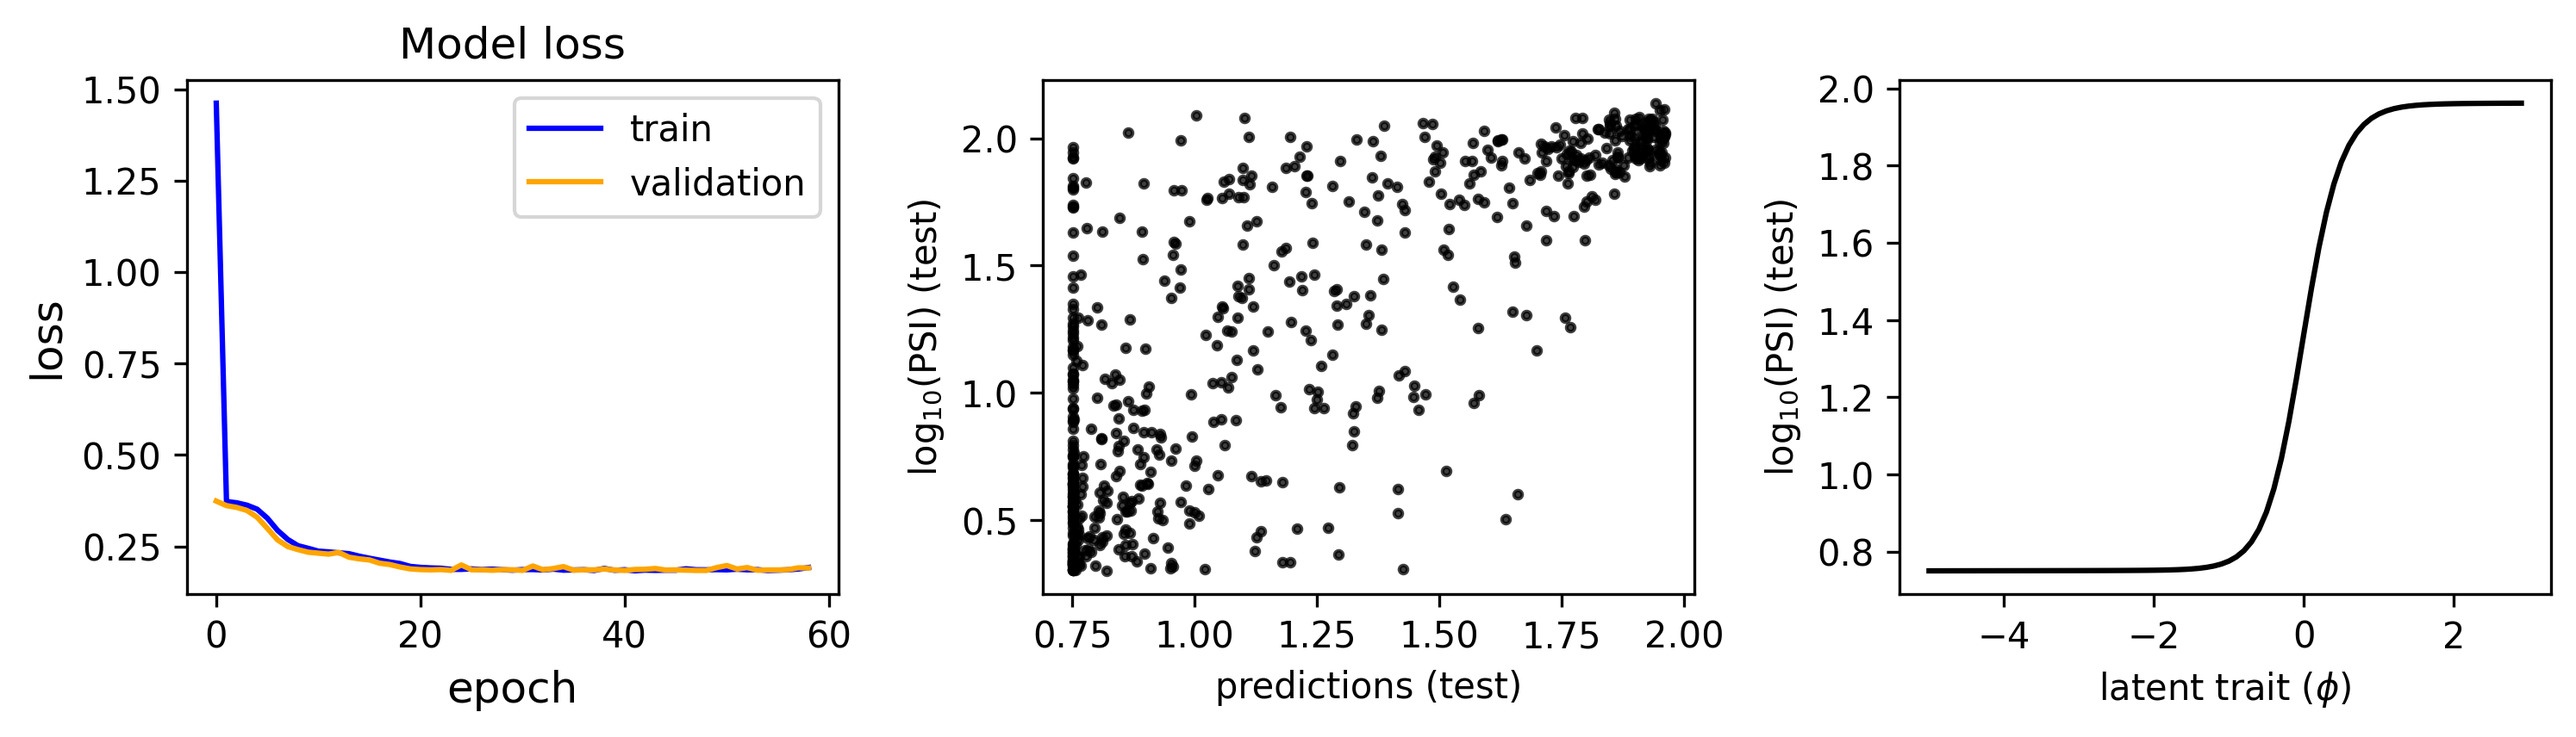
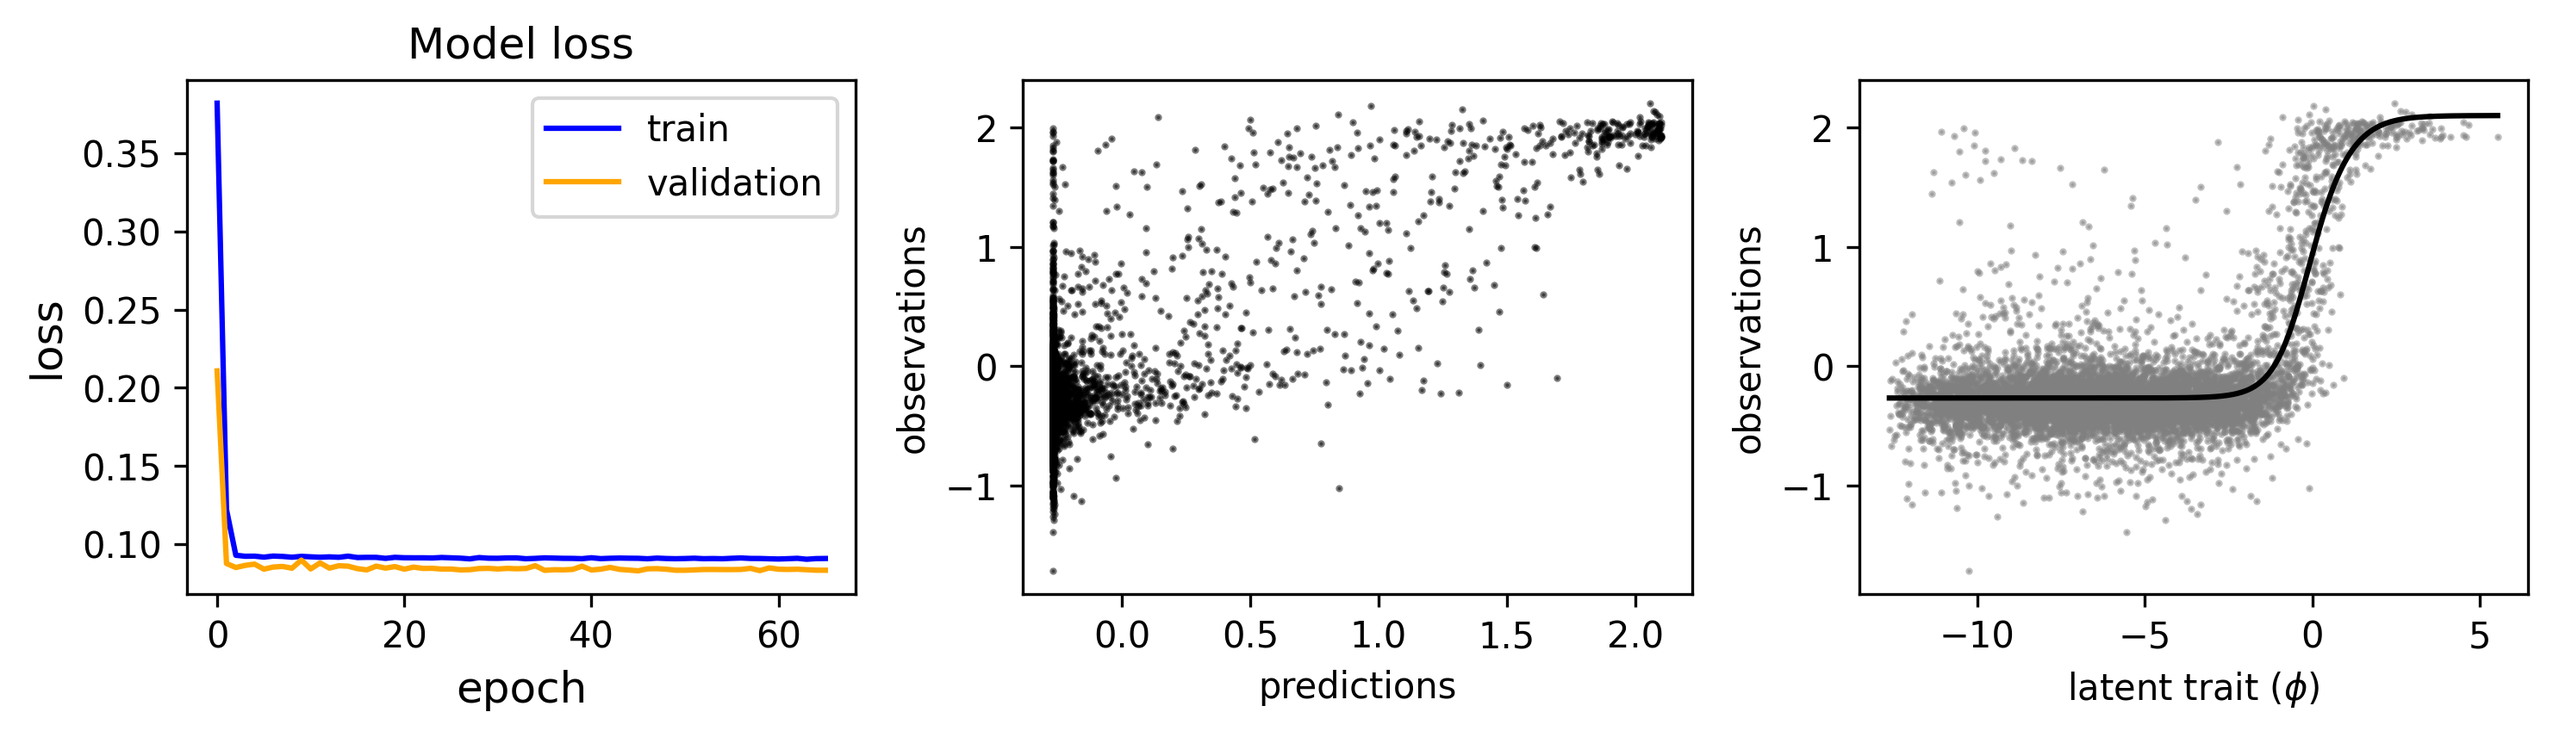
Adding mpsa pairwise demo, adding helper function which cleans up demo code, updating documentation

diff --git a/mavenn/src/utils.py b/mavenn/src/utils.py
@@ -2,6 +2,7 @@ from sklearn.preprocessing import LabelEncoder
 from sklearn.preprocessing import OneHotEncoder
 import numpy as np
 from mavenn.src.error_handling import handle_errors, check
+import matplotlib.pyplot as plt
 
 
 @handle_errors
@@ -285,3 +286,63 @@ def _generate_all_pair_features_from_sequences(sequences,
         allpairs_seqs_OHE.append(OHE_dinucl_seq.ravel())
 
     return np.array(allpairs_seqs_OHE)
+
+
+@handle_errors
+def ge_plots_for_mavenn_demo(loss_history,
+                             predictions,
+                             true_labels,
+                             sequences,
+                             GE_model):
+    """
+
+    Helper function that plots predictions vs true labels,
+    losses and the GE nonlinearity for mavenn's demo functions
+
+    parameters
+    ----------
+    loss_history: (tf loss history/array-like)
+        arrays containing loss values
+
+    sequences: (array-like)
+        sequences which will be used to make predictions
+
+    predictions: (array-like)
+        model predictions for the sequences entered
+
+    true_labels: (array-like)
+        true labels for the model predictions
+
+    GE_model: (GlobalEpistasisModel object)
+        trained GE model from which the GE nonlinearity will be plotted
+
+
+    returns
+    -------
+    None
+
+    """
+
+    fig, ax = plt.subplots(1, 3, figsize=(10, 3))
+
+    ax[0].plot(loss_history.history['loss'], color='blue')
+    ax[0].plot(loss_history.history['val_loss'], color='orange')
+    ax[0].set_title('Model loss', fontsize=12)
+    ax[0].set_ylabel('loss', fontsize=12)
+    ax[0].set_xlabel('epoch', fontsize=12)
+    ax[0].legend(['train', 'validation'])
+
+    ax[1].scatter(predictions, true_labels, s=1, alpha=0.5, color='black')
+    ax[1].set_ylabel('observations')
+    ax[1].set_xlabel('predictions')
+
+    # get ge nonlinear function
+    GE_nonlinearity = GE_model.ge_nonlinearity(sequences)
+
+    ax[2].plot(GE_nonlinearity[1], GE_nonlinearity[0], color='black')
+    ax[2].scatter(GE_nonlinearity[2], true_labels, color='gray', s=1, alpha=0.5)
+
+    ax[2].set_ylabel('observations')
+    ax[2].set_xlabel('latent trait ($\phi$)')
+
+    plt.tight_layout()

diff --git a/mavenn/examples/demo_GEmpsaPairwise.py b/mavenn/examples/demo_GEmpsaPairwise.py
@@ -14,13 +14,13 @@ x_train, x_test, y_train, y_test = train_test_split(mpsa_df['sequence'].values, 
 train_df = pd.DataFrame({'sequence': x_train, 'values': y_train}, columns=['sequence', 'values'])
 
 # load mavenn's GE model
-GE_model = mavenn.GlobalEpistasisModel(df=train_df, model_type='additive', alphabet_dict='rna')
+GE_model = mavenn.GlobalEpistasisModel(df=train_df, model_type='pairwise',alphabet_dict='rna')
 model = GE_model.define_model()
-GE_model.compile_model(lr=0.005)
-history = GE_model.fit(epochs=200, use_early_stopping=True, early_stopping_patience=20)
+GE_model.compile_model(lr=0.001)
+history = GE_model.fit(epochs=200, use_early_stopping=True, early_stopping_patience=20, verbose=1)
 
 predictions = GE_model.predict(x_test)
-loss_history =  GE_model.return_loss()
+loss_history = GE_model.return_loss()
 
 ge_plots_for_mavenn_demo(loss_history, predictions, y_test, x_test, GE_model)
 

diff --git a/mavenn/examples/demo_GEGB1.py b/mavenn/examples/demo_GEGB1.py
@@ -123,8 +123,8 @@ ax[0].set_xlabel('epoch', fontsize=12)
 ax[0].legend(['train', 'validation'])
 
 ax[1].scatter(predictions,y_test, s=0.05, alpha=0.05, color='black')
-ax[1].set_ylabel('log enrichment (test)')
-ax[1].set_xlabel('predictions (test)')
+ax[1].set_ylabel('observations')
+ax[1].set_xlabel('predictions')
 
 # get ge nonlinear function
 GE_nonlinearity = GE_model.ge_nonlinearity(x_test)
@@ -132,7 +132,7 @@ GE_nonlinearity = GE_model.ge_nonlinearity(x_test)
 ax[2].plot(GE_nonlinearity[1], GE_nonlinearity[0], color='black')
 ax[2].scatter(GE_nonlinearity[2], y_test, color='gray', s=2, alpha=0.1)
 
-ax[2].set_ylabel('log (enrichment) (test)')
+ax[2].set_ylabel('observations')
 ax[2].set_xlabel('latent trait ($\phi$)')
 
 plt.tight_layout()

diff --git a/docs/examples.rst b/docs/examples.rst
@@ -25,43 +25,54 @@ and assume that the following header cell has already been run. ::
 Additive GE model: (MPSA)
 -------------------------
 
-Fill text . ::
+Example snippet for fitting additive GE model to MPSA data ::
 
-	# load data
-	mpsa_df = pd.read_csv(mavenn.__path__[0]+'/examples/datafiles/mpsa/psi_9nt_mavenn.csv')
-	mpsa_df = mpsa_df.dropna()
-	mpsa_df = mpsa_df[mpsa_df['values'] > 2]  # No pseudocounts
+    # load data
+    mpsa_df = pd.read_csv(mavenn.__path__[0]+'/examples/datafiles/mpsa/psi_9nt_mavenn.csv')
+    mpsa_df = mpsa_df.dropna()
+    mpsa_df = mpsa_df[mpsa_df['values'] > 0]  # No pseudocounts
 
-	x_train, x_test, y_train, y_test = train_test_split(mpsa_df['sequence'].values, np.log10(mpsa_df['values'].values))
-	train_df = pd.DataFrame({'sequence': x_train, 'values': y_train}, columns=['sequence', 'values'])
+    x_train, x_test, y_train, y_test = train_test_split(mpsa_df['sequence'].values, np.log10(mpsa_df['values'].values))
+    train_df = pd.DataFrame({'sequence': x_train, 'values': y_train}, columns=['sequence', 'values'])
 
-	# load mavenn's GE model
-	GE_model = mavenn.GlobalEpistasisModel(df=train_df, model_type='GE',alphabet_dict='rna')
-	model = GE_model.define_model()
-	GE_model.compile_model(lr=0.0025)
-	history = GE_model.fit(epochs=200, use_early_stopping=True, early_stopping_patience=10)
+    # load mavenn's GE model
+    GE_model = mavenn.GlobalEpistasisModel(df=train_df, model_type='additive', alphabet_dict='rna')
+    model = GE_model.define_model()
+    GE_model.compile_model(lr=0.005)
+    history = GE_model.fit(epochs=200, use_early_stopping=True, early_stopping_patience=20)
 
-	predictions = GE_model.predict(x_test)
-	loss_history =  GE_model.return_loss()
+    predictions = GE_model.predict(x_test)
+    loss_history =  GE_model.return_loss()
 
-	# make plots
-	fig, ax = plt.subplots(1, 3, figsize=(10, 3))
-
-	ax[0].plot(loss_history.history['loss'], color='blue')
-	ax[0].plot(loss_history.history['val_loss'], color='orange')
-	ax[0].set_title('Model loss', fontsize=12)
-	ax[0].set_ylabel('loss', fontsize=12)
-	ax[0].set_xlabel('epoch', fontsize=12)
-	ax[0].legend(['train', 'validation'])
-
-	ax[1].scatter(predictions,y_test,s=5, alpha=0.75, color='black')
-	ax[1].set_ylabel('log$_{10}$(PSI) (test)')
-	ax[1].set_xlabel('predictions (test)')
-
-	phi = np.arange(-5,3,0.1)
-	ax[2].plot(phi,GE_model.ge_nonlinearity(phi), color='black')
-	ax[2].set_ylabel('log$_{10}$(PSI) (test)')
-	ax[2].set_xlabel('latent trait ($\phi$)')
+    # make plots
+    ge_plots_for_mavenn_demo(loss_history, predictions, y_test, x_test, GE_model)
 	
 .. image:: _static/examples_images/GE_additive_mpsa_demo.png	
 	
+
+Pairwise GE model: (MPSA)
+-------------------------
+
+Example snippet for fitting pairwise GE model to MPSA data ::
+
+    # load data
+    mpsa_df = pd.read_csv(mavenn.__path__[0]+'/examples/datafiles/mpsa/psi_9nt_mavenn.csv')
+    mpsa_df = mpsa_df.dropna()
+    mpsa_df = mpsa_df[mpsa_df['values'] > 0]  # No pseudocounts
+
+    x_train, x_test, y_train, y_test = train_test_split(mpsa_df['sequence'].values, np.log10(mpsa_df['values'].values))
+    train_df = pd.DataFrame({'sequence': x_train, 'values': y_train}, columns=['sequence', 'values'])
+
+    # load mavenn's GE model
+    GE_model = mavenn.GlobalEpistasisModel(df=train_df, model_type='pairwise',alphabet_dict='rna')
+    model = GE_model.define_model()
+    GE_model.compile_model(lr=0.001)
+    history = GE_model.fit(epochs=200, use_early_stopping=True, early_stopping_patience=20, verbose=1)
+
+    predictions = GE_model.predict(x_test)
+    loss_history =  GE_model.return_loss()
+
+    # make plots
+    ge_plots_for_mavenn_demo(loss_history, predictions, y_test, x_test, GE_model)
+
+.. image:: _static/examples_images/GE_pairwise_mpsa_demo.png
